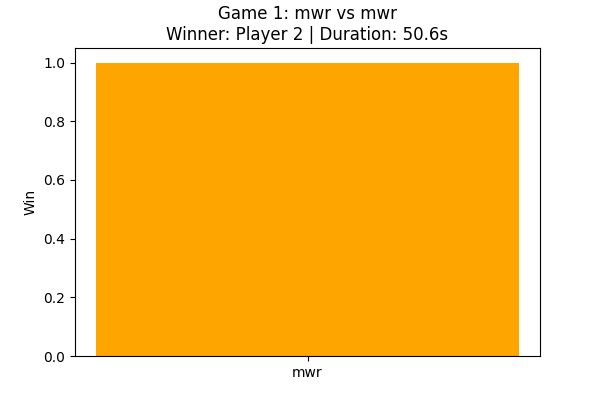
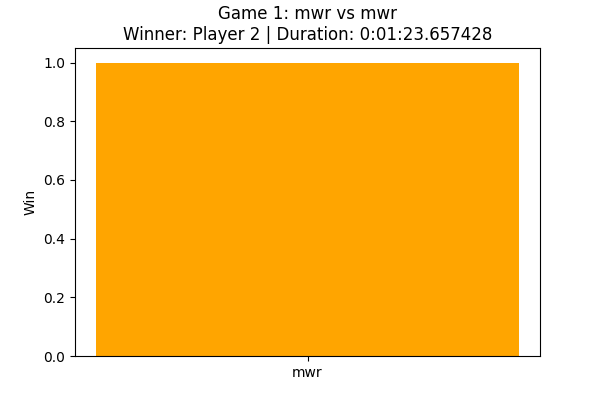
fix_2

Changed region(s): [[0.21, 0.06, 0.84, 0.12]]

diff --git a/game_logger.py b/game_logger.py
@@ -2,12 +2,8 @@ import os
 import matplotlib.pyplot as plt
 from datetime import datetime
 
-
 def normalize_match_type(match_type):
-    parts = [p.strip().upper() for p in match_type.split("vs")]
-    parts.sort()
-    return "_vs_".join(parts)
-
+    return match_type.strip().replace(" ", "_")
 
 
 class GameLogger:
@@ -15,15 +11,15 @@ class GameLogger:
         self.original_match_type = match_type
         self.folder_name = normalize_match_type(match_type)
         self.results = []
-        self.start_time = None
+        self.game_start_time = datetime.now()
         self.end_time = None
 
     def log_result(self, game_number, winner, start_time, end_time, ai_config):
-        duration = (end_time - start_time).total_seconds()
+        duration = datetime.now() - self.game_start_time
         player1_type = ai_config.get("1", "Player 1")
         player2_type = ai_config.get("2", "Player 2")
 
-        if self.start_time is None:
+        if self.game_start_time is None:
             self.start_time = start_time
         self.end_time = end_time
 
@@ -35,14 +31,18 @@ class GameLogger:
         folder_path = os.path.join("plots", self.folder_name)
         os.makedirs(folder_path, exist_ok=True)
 
-        # Plot single game result
+        # Determine the next available game number
+        existing_files = [f for f in os.listdir(folder_path) if f.startswith("game_") and f.endswith(".png")]
+        next_index = len(existing_files) + 1
+        filename = f"game_{next_index}.png"
+
+        # Plot
         plt.figure(figsize=(6, 4))
         plt.bar([p1_type, p2_type], [1 if winner == "Player 1" else 0, 1 if winner == "Player 2" else 0],
                 color=["blue", "orange"])
-        plt.title(f"Game {game_number}: {p1_type} vs {p2_type}\nWinner: {winner} | Duration: {duration:.1f}s")
+        plt.title(f"Game {next_index}: {p1_type} vs {p2_type}\nWinner: {winner} | Duration: {duration}")
         plt.ylabel("Win")
 
-        filename = f"game_{game_number}.png"
         filepath = os.path.join(folder_path, filename)
         plt.savefig(filepath)
         plt.close()

diff --git a/frontend/ui_new.py b/frontend/ui_new.py
@@ -5,8 +5,8 @@ from backend.game_logic.placement_logic import perform_ai_placement
 from backend.game_logic.opening_logic import perform_ai_opening
 from backend.game_logic.removal_logic import perform_ai_removal
 from backend.game_logic.movement_logic import perform_ai_movement
-from backend.ai_logic.ai_minimax import minimax
 from backend.game_logic.utils import *
+from backend.ai_logic.ai_minimax import minimax
 
 pos_coords = {
     0: (40, 40), 1: (280, 40), 2: (520, 40), 3: (120, 120), 4: (280, 120),
@@ -15,7 +15,6 @@ pos_coords = {
     15: (200, 360), 16: (280, 360), 17: (360, 360), 18: (120, 440), 19: (280, 440),
     20: (440, 440), 21: (40, 520), 22: (280, 520), 23: (520, 520)
 }
-
 
 class ShaxGame:
     def __init__(self, root, ai_config, logger, game_number):
@@ -26,12 +25,11 @@ class ShaxGame:
         self.status_label = tk.Label(root, text="", font=("Arial", 12), fg="blue")
         self.status_label.pack()
 
+        self.ai_config = ai_config
         self.logger = logger
         self.game_number = game_number
-        self.ai_config = ai_config
 
         self._init_game_state()
-
         self.draw_board_lines()
         self.draw_positions()
 
@@ -43,6 +41,7 @@ class ShaxGame:
         else:
             self.root.after(500, self.ai_place)
 
+        # what is the purpose of update_board here
         self.update_board()
         self.game_start_time = datetime.now()
         print(f"[Game Start] Game started at {self.game_start_time.strftime('%H:%M:%S')}")
@@ -129,7 +128,7 @@ class ShaxGame:
                 end_time=datetime.now(),
                 ai_config=self.ai_config
             )
-            self.root.quit()
+            exit()
 
     def ai_forced_move_no_capture(self):
         moves = get_possible_moves_player(self.board, self.turn)

diff --git a/main.py b/main.py
@@ -15,16 +15,16 @@ def get_game_config(mode):
     if mode == "1":
         return {"1": "mwor", "2": "mcts"}, "MWOR vs MCTS"
     elif mode == "2":
-        return {"1": "mwr", "2": "mcts"}, "MWR vs MCTS"
+        return {"1": "mcts", "2": "mwr"}, "MWR vs MCTS"
     elif mode == "3":
-        return {"1": "mwr", "2": "human"}, "MWR vs Human"
+        return {"1": "human", "2": "mwr"}, "MWR vs Human"
     elif mode == "4":
         return {"1": "mwr", "2": "mwr"}, "MWR vs MWR"
     else:
         print("Invalid option.")
         exit()
 
-def run_games(ai_config, logger, num_games=5):
+def run_games(ai_config, logger, num_games=1):
     for i in range(num_games):
         print(f"\n=== Game {i + 1} / {num_games} started ===")
         root = tk.Tk()
